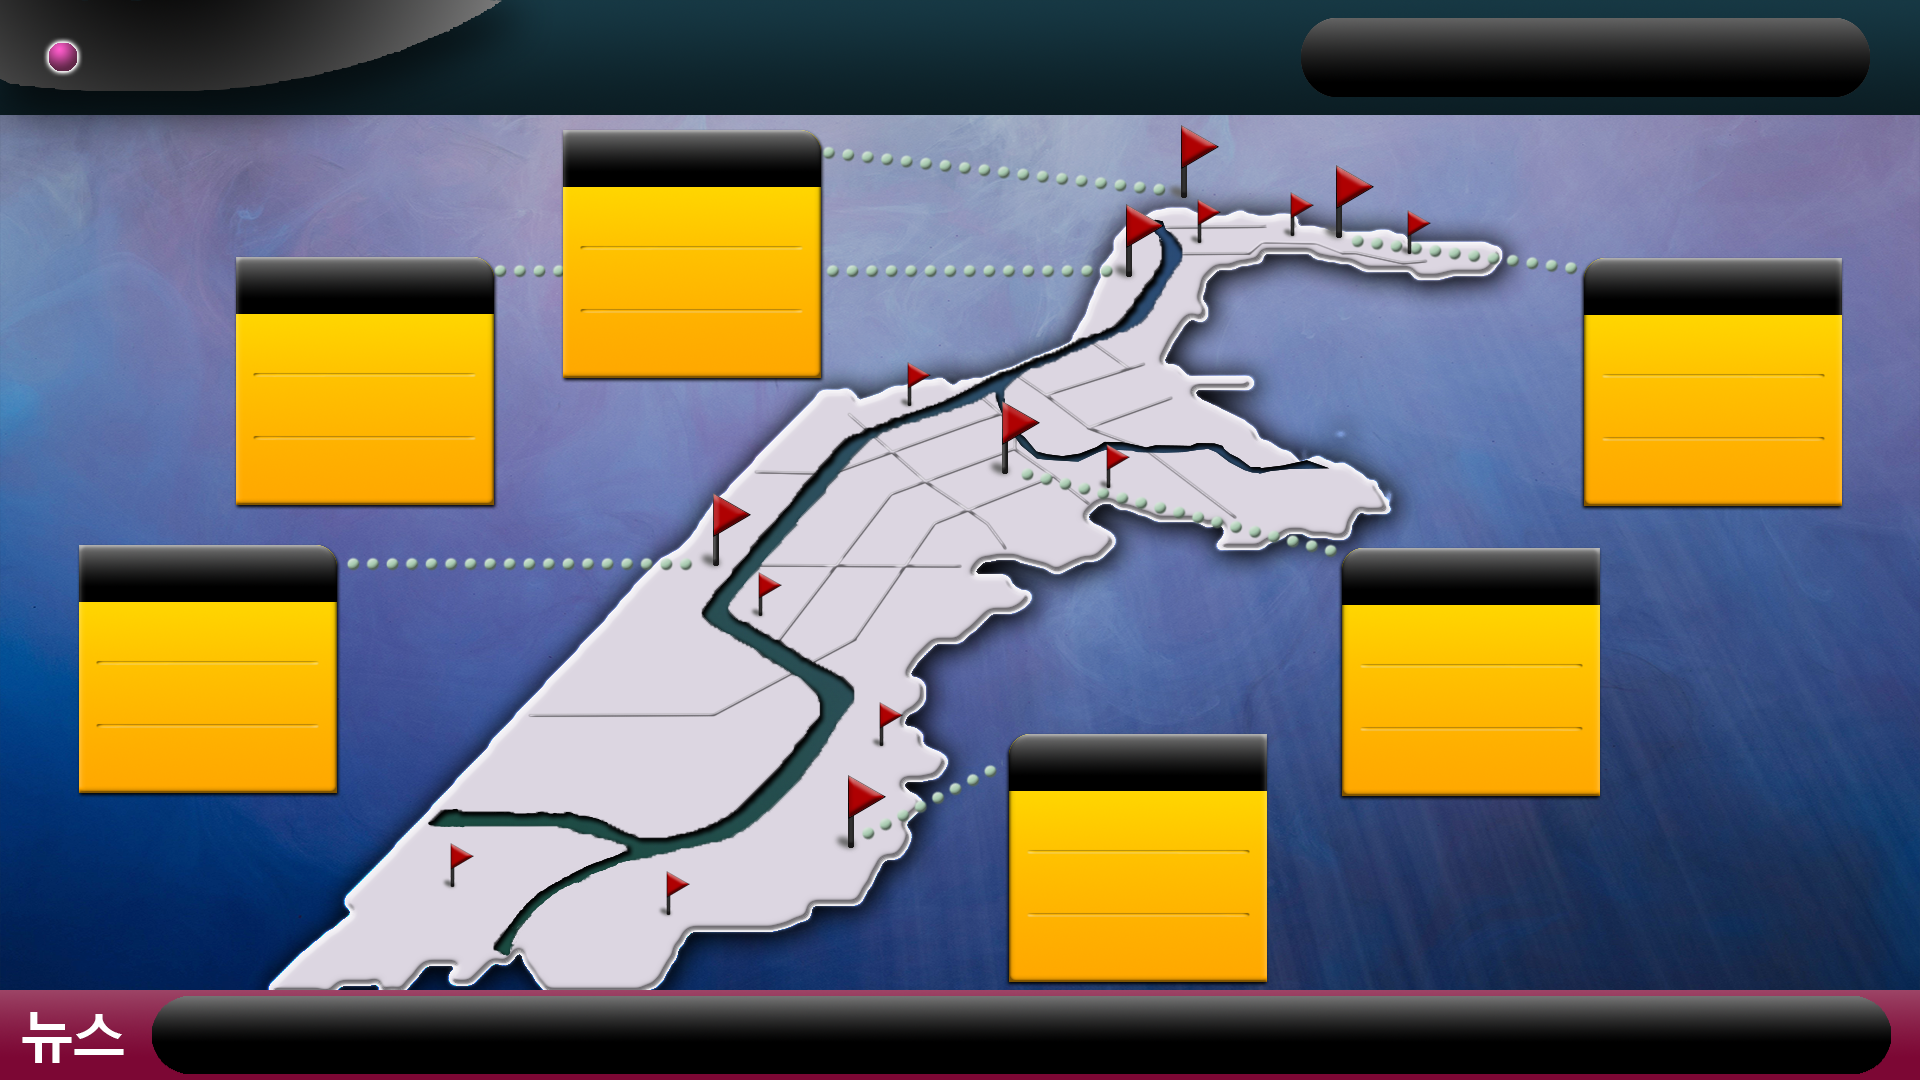
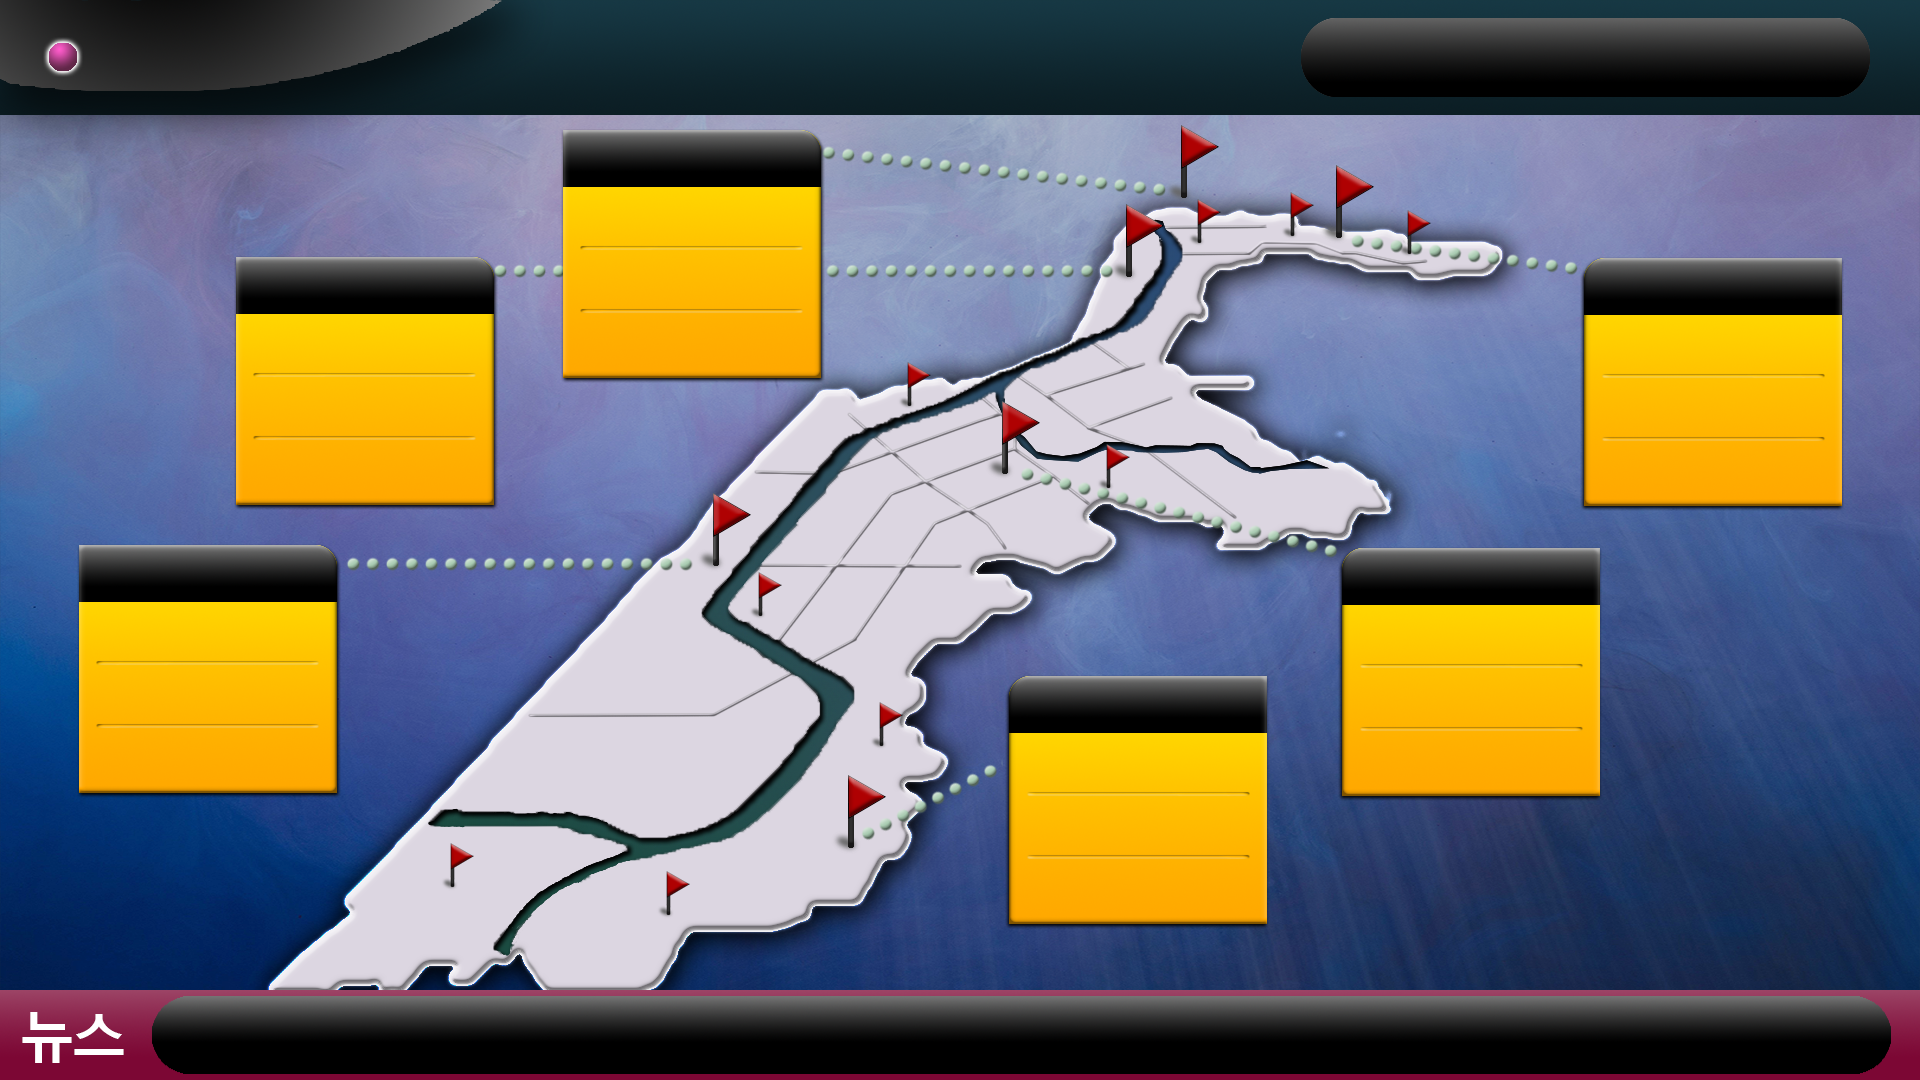
edit details

Changed region(s): [[0.5, 0.6111, 0.6875, 0.7333], [0.5, 0.825, 0.6875, 0.9167], [0.5312, 0.7639, 0.6562, 0.7944]]

diff --git a/views/src/styles/carousel.css b/views/src/styles/carousel.css
@@ -1,9 +1,11 @@
 :root {
     --width : 1920px;
     --height : 1080px;
-    --btnWidth : 150px;
-    --indicatorWidth: 50px;
+    --sideBtnWidth : 100px;
+    --indicatorWidth: 55px;
     --indicatorHeight: 20px;
+    --navBottomPosition: 100px;
+    --arrowWidth: 10px;
 }
 body {
     overflow:hidden;
@@ -15,6 +17,7 @@ body {
     width: var(--width);
     height: var(--height);
     margin: 0 auto;
+    overflow: hidden;
 }
 .carousel__container{
     position: relative;
@@ -22,6 +25,7 @@ body {
     height : var(--height);
     width : var(--width);
     transition: transform 0.4s ease-in-out;
+    
 }
 .carousel__item{
     height : var(--height);
@@ -31,26 +35,25 @@ body {
     position: absolute;
     z-index: 0;
 }
-.carousel__button-prev{
+.carousel__button-prev, .carousel__button-next{
     position: absolute;
     z-index: 1;
     height: var(--height);
-    width: var(--btnWidth);
+    width: var(--sideBtnWidth);
     bottom: calc(var(--height) / 2 - var(--height) / 2);
-    background: linear-gradient( to left, transparent, rgba(0, 0, 0, 0.2) );
-    opacity: 0;
-    transition: opacity .2s;
-}
-.carousel__button-next{
-    position: absolute;
-    z-index: 1;
-    height: var(--height);
-    width: var(--btnWidth);
-    left: calc(var(--width) - var(--btnWidth));
-    bottom: calc(var(--height) / 2 - var(--height) / 2);
-    background: linear-gradient( to right, transparent, rgba(0, 0, 0, 0.2) );
     opacity: 0;
     transition: opacity 0.2s ease-in-out;
+    cursor: pointer;
+    text-align: center;
+
+    display: flex;
+}
+.carousel__button-prev{
+    background: linear-gradient( to left, transparent, rgba(0, 0, 0, 0.3) );
+}
+.carousel__button-next{
+    left: calc(var(--width) - var(--sideBtnWidth));
+    background: linear-gradient( to right, transparent, rgba(0, 0, 0, 0.3) );
 }
 .carousel__button-prev:hover{
     opacity: 1;
@@ -58,22 +61,16 @@ body {
 .carousel__button-next:hover{
     opacity: 1;
 }
-
-/* .carousel__item:nth-child(odd){
-    background-color: aqua;
+.arrow__left, .arrow__right{
+    width: 100%;
+    filter: invert(84%) sepia(27%) saturate(268%) hue-rotate(313deg) brightness(115%) contrast(103%);
 }
-
-.carousel__item:nth-child(even){
-    background-color: pink;
-} */
 
 .carousel__nav{
     position: absolute;
     display: flex;
     left: calc((var(--width)) / 2);
-    /* bottom: var(--indicatorHeight); */
-    bottom: 100px;
-    background-color: red;
+    bottom: var(--navBottomPosition);
 }
 
 .carousel__indicator{
@@ -82,8 +79,8 @@ body {
     width: var(--indicatorWidth);
     height: var(--indicatorHeight);
     border-radius: var(--indicatorHeight);
-
     margin: 4px;
+    cursor: pointer;
 }
 
 .current__carousel{

diff --git a/views/src/scripts/index.js b/views/src/scripts/index.js
@@ -22,10 +22,20 @@ function autoAdjustScreenSize(width, height){
 let pageWidth = autoAdjustScreenSize(screenWidth, screenHeight)[0];
 let pageHeight = autoAdjustScreenSize(screenWidth, screenHeight)[1];
 
-console.log(`현재 모니터의 해상도 : ${pageWidth} x ${pageHeight}`)
+console.log(`현재 모니터의 해상도 : ${screenWidth} x ${screenHeight}`)
+console.log(`슬라이드 출력 해상도 : ${pageWidth} x ${pageHeight}`)
 
 document.documentElement.style.setProperty('--width', `${pageWidth}px`);
 document.documentElement.style.setProperty('--height', `${pageHeight}px`);
 
 
-//
+// vw 정의
+let vw = pageWidth / 100;
+
+// indicator
+document.documentElement.style.setProperty('--navBottomPosition', `${5 * vw}px`);
+document.documentElement.style.setProperty('--indicatorWidth', `${2.5 * vw}px`);
+document.documentElement.style.setProperty('--indicatorHeight', `${1 * vw}px`);
+
+// prev next buttons
+document.documentElement.style.setProperty('--sideBtnWidth', `${5 * vw}px`);

diff --git a/views/index.html b/views/index.html
@@ -22,8 +22,8 @@
             <div class="carousel__item">9</div>
         </div>
         
-        <div class="prevBtn carousel__button-prev">&#60;</div>
-        <div class="nextBtn carousel__button-next">&#62;</div>
+        <div class="prevBtn carousel__button-prev"><img src="src/images/left-arrow.svg" class="arrow__left" /></div>
+        <div class="nextBtn carousel__button-next"><img src="src/images/right-arrow.svg" class="arrow__right" /> </div>
 
         <div class="carousel__nav"></div>
     </div>
